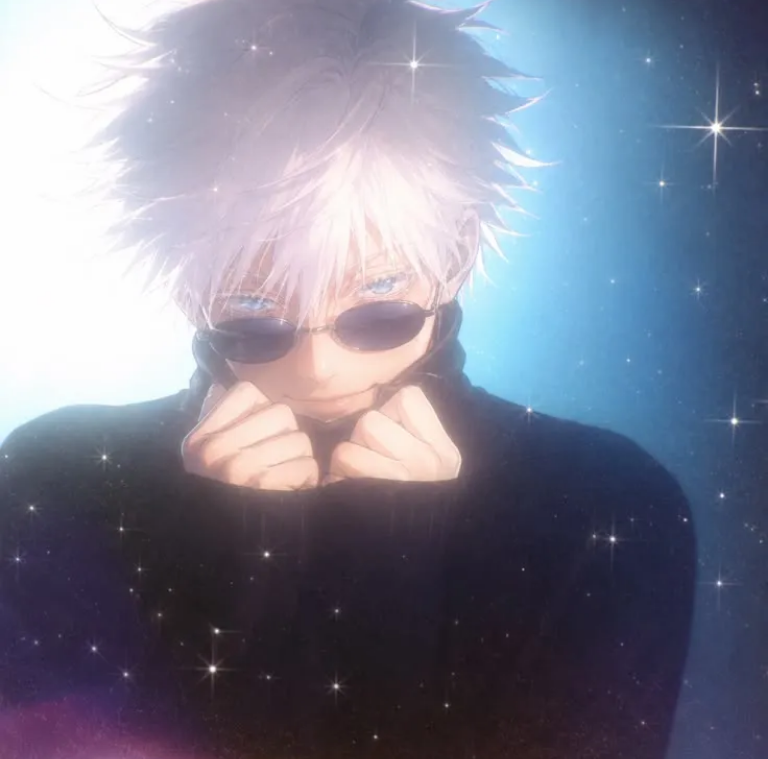
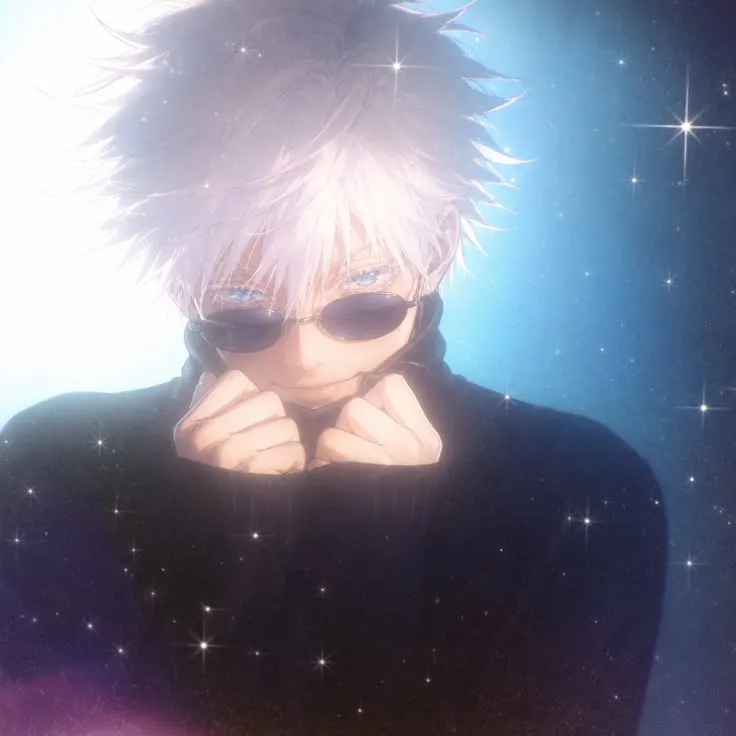
Update Toji profile picture
Replace toji.png with the square 736x736 version of the new picture
(converted from WebP to real PNG) and add a ?v=2 cache-busting query
so browsers stop showing the cached image.

diff --git a/monumentals.html b/monumentals.html
@@ -1072,7 +1072,7 @@
 
                   <!-- Toji -->
 									<article data-date="2025-07-19">
-										<a href="https://www.youtube.com/@Toji-DeS-d3q" class="image" target="_blank" rel="noopener noreferrer"><img src="images/mons/toji.png" alt="" /></a>
+										<a href="https://www.youtube.com/@Toji-DeS-d3q" class="image" target="_blank" rel="noopener noreferrer"><img src="images/mons/toji.png?v=2" alt="" /></a>
 										<div class="inner">
 											<h4><a href="https://www.youtube.com/@Toji-DeS-d3q" class="profile-link" target="_blank" rel="noopener noreferrer">Toji</a></h4>
 											<p>
